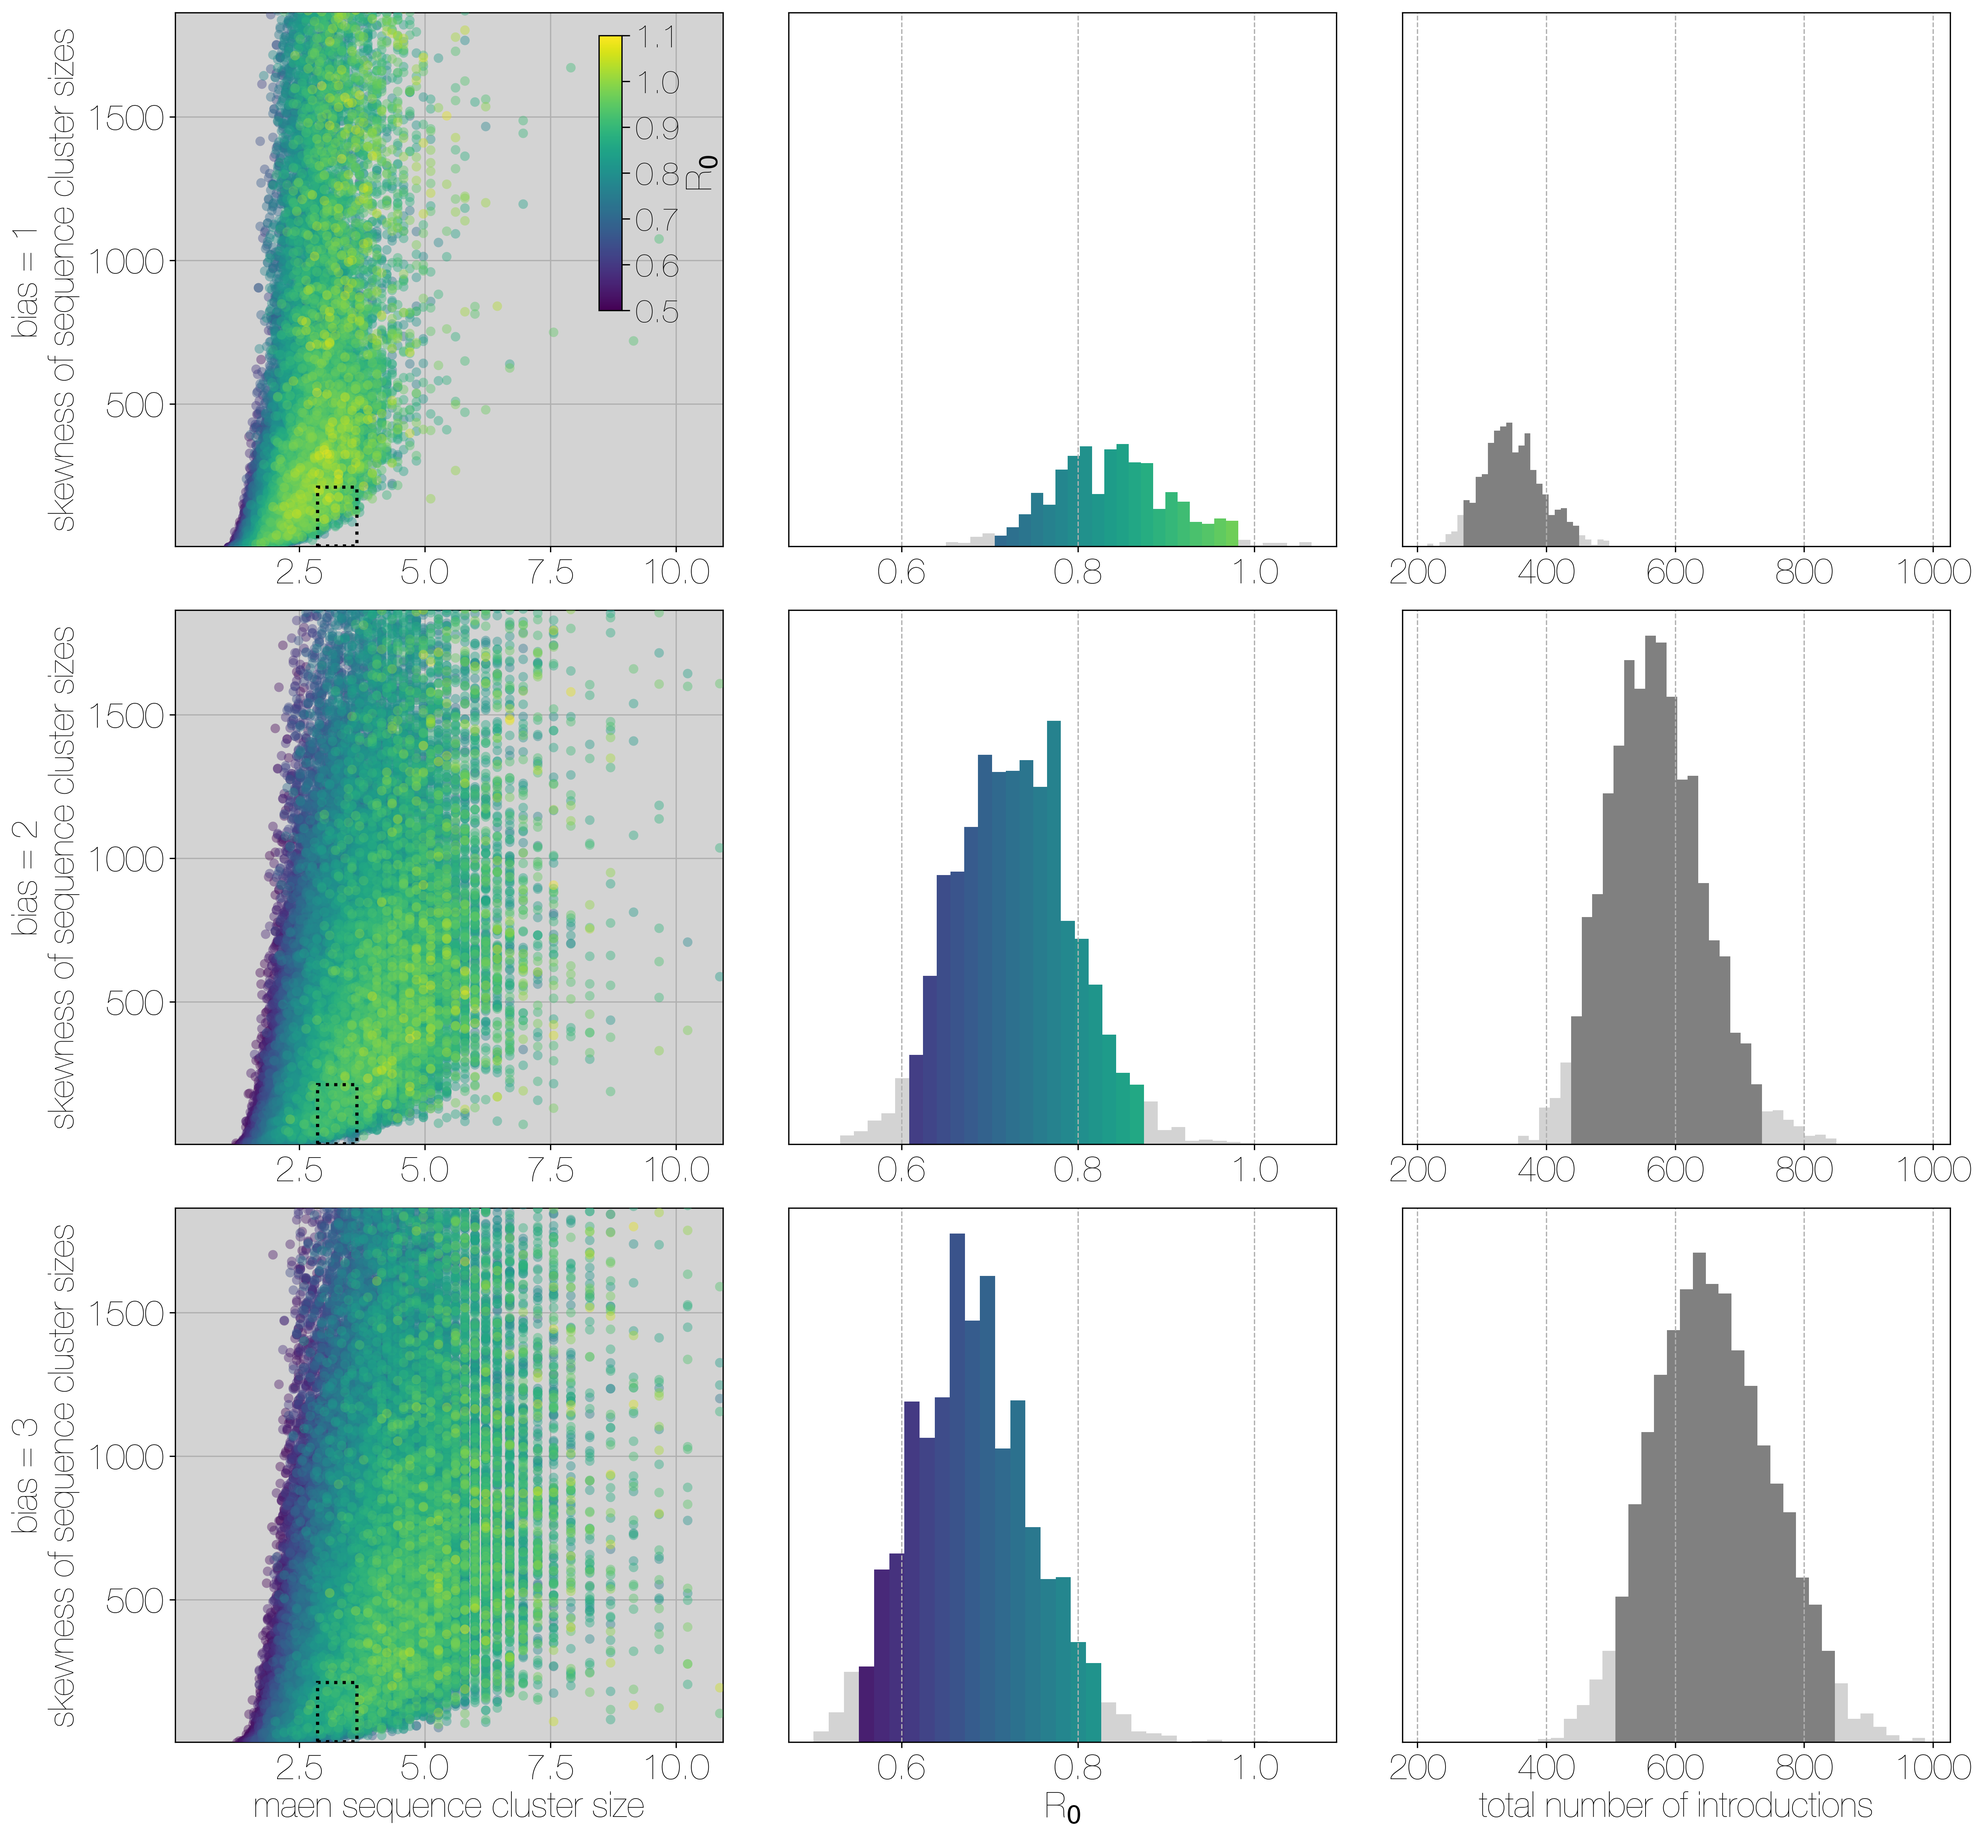
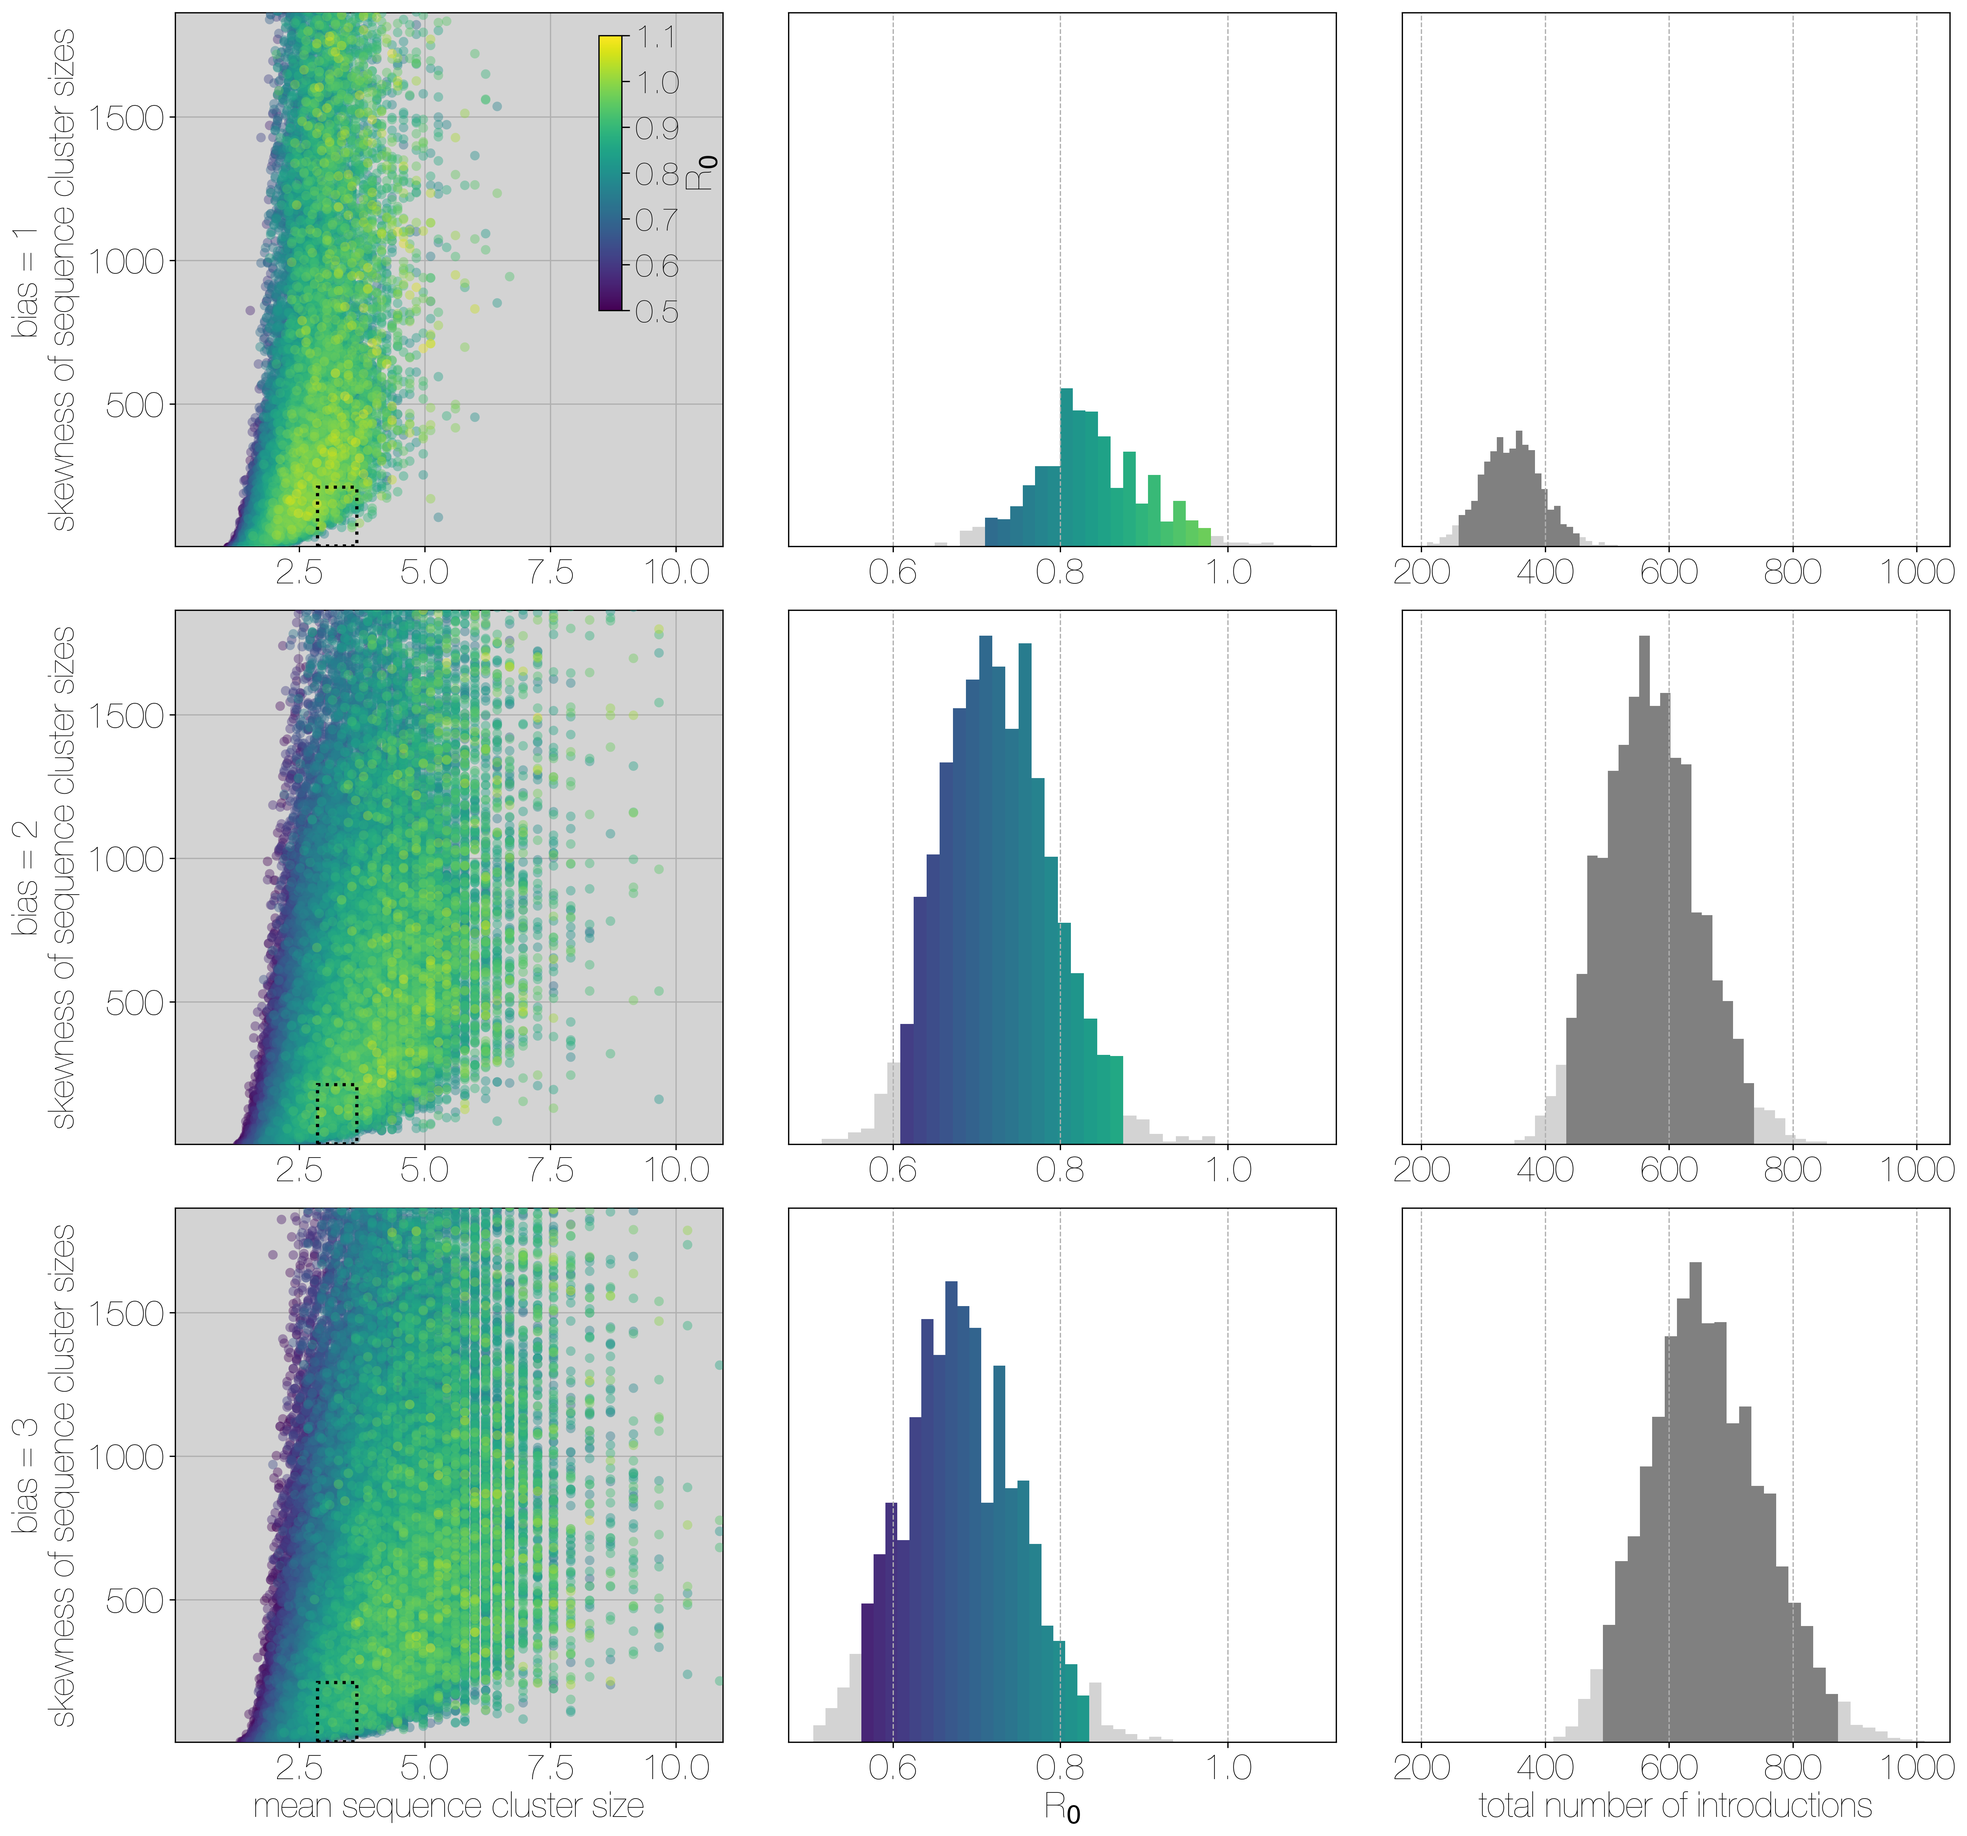
Fix typos in epi figures, address #39

diff --git a/mers-structure.tex b/mers-structure.tex
@@ -261,6 +261,7 @@ Given this, we also performed simulations where the total number of cases is dou
 In these analyses $R_{0}$ values tend to decrease even further as numbers of introductions go up, although very few simulations match currently observed MERS-CoV sequence data (Figure \ref{extra_cases}).
 
 Overall, our analyses indicate that MERS-CoV is poorly suited for human-to-human transmission, with an estimated $R_{0}<0.91$ and sequence sampling likely to be biased towards large hospital outbreaks.
+All matching simulations exhibit highly skewed distributions of case cluster sizes with long tails (Figure \ref{cluster_distributions}), which is qualitatively similar to the results of \citep{cauchemez_unraveling_2016}.
 Given these findings, and the fact that large outbreaks of MERS occurred in hospitals, the combination of frequent spillover of MERS-CoV into humans and occasional outbreak amplification via poor hygiene practices \citep{assiri_hospital_2013,chen_comparative_2017} appear sufficient to explain observed epidemiological patterns of MERS-CoV.
 
 
@@ -1031,6 +1032,17 @@ Numbers indicate the total number of epidemiological simulations under each comb
 More simulations match observations with bias$>1$ and $\omega \approx 0.1$.
 	}
 	\label{marginals}
+\end{figure}
+
+\begin{figure}[h]
+\centering
+	\includegraphics[width=0.65\textwidth]{figures/mers_distributions.png}
+	\caption{\textbf{Boxplots of matching simulated case and sequence cluster distributions.}
+Boxplots indicate frequency of case (blue, top) and sequence (red, bottom) cluster sizes across simulations at different bias levels, marginalised across $R_{0}$ values.
+Outliers are shown with transparency, medians are indicated with thick black lines.
+Case clusters exhibit a strong skew with large numbers of singleton introductions and a substantial tail at higher levels of bias.
+	}
+	\label{cluster_distributions}
 \end{figure}
 
 \begin{figure}[h]
